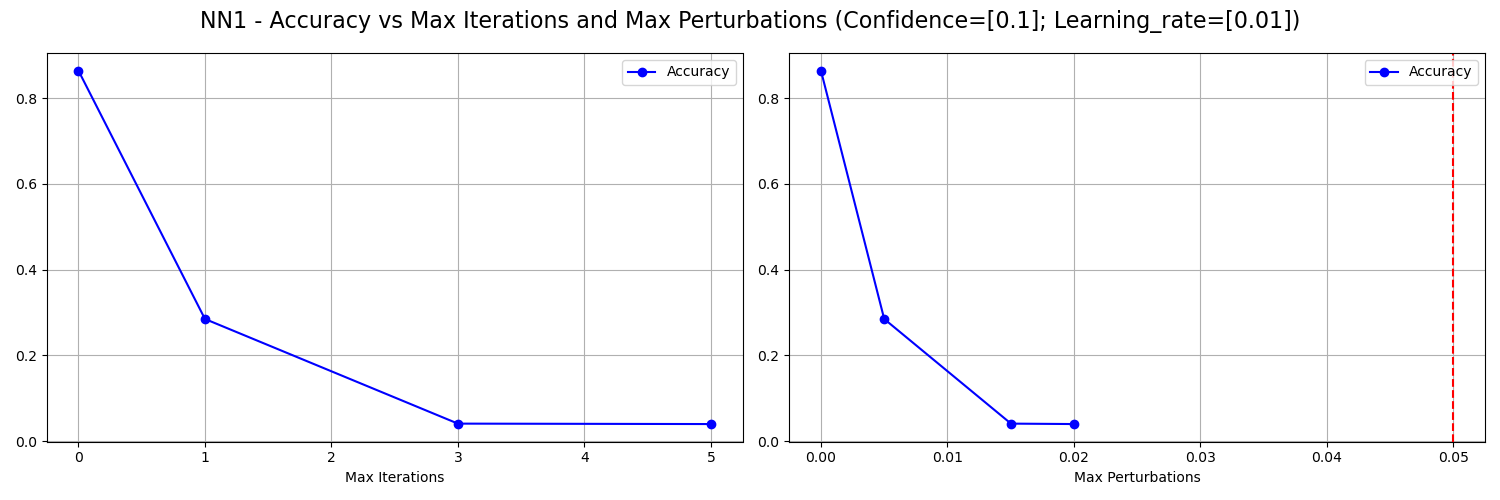
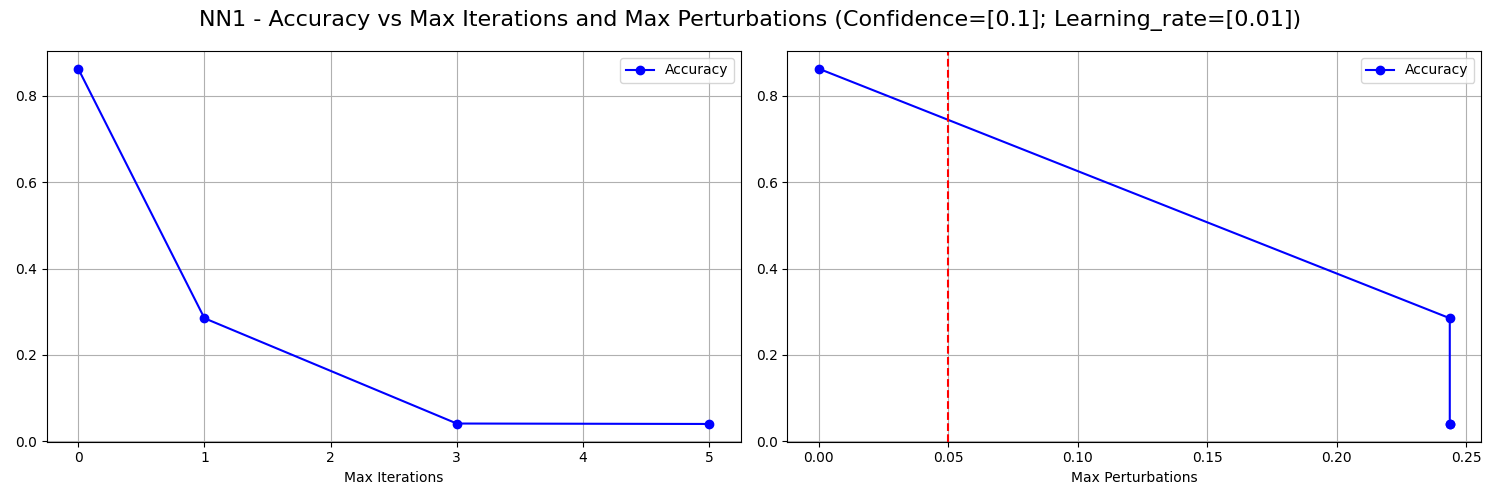
aggiustamento pgd

diff --git a/security_evaluation_curve.py b/security_evaluation_curve.py
@@ -306,7 +306,6 @@ def run_cw(classifier, name, test_set, accuracy_clean, targeted=False, targeted_
     else:
         plot_accuracy(f"{name} - Accuracy vs Confidence and Max Perturbations (Max_iter={max_iter}; Learning_rate={learning_rate})", "Confidence", confidence_values, max_perturbations, accuracies, attack_dir)
     
-    ''' 
     # Calcolo dell'accuracy al variare di max_iter e della perturbazione massima (con confidence e learning_rate fissati)
     load_dir = images_dir + attack_dir + "/plot2"
     imgs_adv = load_images_from_npy_folder(load_dir)
@@ -366,7 +365,7 @@ def run_cw(classifier, name, test_set, accuracy_clean, targeted=False, targeted_
         plot_accuracy(f"{name} - Accuracy and Targeted Accuracy vs Learning Rate and Max Perturbations (Confidence={confidence}; Max_iter={max_iter})", "Learning Rate", learning_rate_values, max_perturbations, accuracies, attack_dir, targeted, targeted_accuracies)
     else:
         plot_accuracy(f"{name} - Accuracy vs Learning Rate and Max Perturbations (Confidence={confidence}; Max_iter={max_iter})", "Learning Rate", learning_rate_values, max_perturbations, accuracies, attack_dir)
-    '''
+
 
 def plot_accuracy(title, x_title, x, max_perturbations, accuracies, attack_dir, targeted=False, targeted_accuracies=None):
     fig, axes = plt.subplots(1, 2, figsize=(15, 5))

diff --git a/generate_adv_example.py b/generate_adv_example.py
@@ -8,7 +8,7 @@ from attacks import FGSM, BIM, PGD, DF, CW
 
 def main():
     parser = argparse.ArgumentParser()
-    parser.add_argument('--generate_train_adv', type=bool, default=False, help='Se True, genera il train adv set; altrimenti genera il test adv set')
+    parser.add_argument('--generate_train_adv', type=bool, default=True, help='Se True, genera il train adv set; altrimenti genera il test adv set')
     parser.add_argument("--targeted", type=bool, default=True, help="Generate targeted attacks")
     parser.add_argument("--verbose", type=bool, default=True, help="Print detailed information during the generation of adversarial examples")
     args = parser.parse_args()
@@ -19,7 +19,7 @@ def main():
 
     # Attacchi selezionati
     attack_types = ["fgsm", "bim", "pgd", "df", "cw"]
-    attack_types = ["fgsm"]
+    attack_types = ["pgd"]
 
     # Generazione del training set avversario
     if args.generate_train_adv:

diff --git a/defence.py b/defence.py
@@ -13,7 +13,7 @@ def main():
     parser = argparse.ArgumentParser()
     parser.add_argument('--train_detectors', type=bool, default=True, help='Se True, addestra i detector; altrimenti carica i modelli salvati e procede con la valutazione')
     parser.add_argument('--threshold', type=float, default=0.5, help='Threshold per le rilevazioni dei detector')
-    parser.add_argument("--attack", type=str, default="fgsm", choices=["fgsm", "bim", "pgd", "df", "cw"], help="Type of attack to test")
+    parser.add_argument("--attack", type=str, default="pgd", choices=["fgsm", "bim", "pgd", "df", "cw"], help="Type of attack to test")
     parser.add_argument("--targeted", type=bool, default=False, help="Test on targeted attack")
     args = parser.parse_args()
 

diff --git a/attacks.py b/attacks.py
@@ -118,7 +118,7 @@ class PGD(AdversarialAttack):
         super().__init__(classifierNN1, classifierNN2, detectors, threshold)
 
     def generate_attack(self, images, epsilon, epsilon_step, max_iter, targeted=False, targeted_labels=None):
-        attack = ProjectedGradientDescent(estimator=self.classifierNN1, eps=epsilon, eps_step=epsilon_step, max_iter=max_iter, random_eps=True, targeted=targeted)
+        attack = ProjectedGradientDescent(estimator=self.classifierNN1, eps=epsilon, eps_step=epsilon_step, max_iter=max_iter, targeted=targeted)
         if targeted:
             one_hot_targeted_labels = torch.nn.functional.one_hot(targeted_labels, NUM_CLASSES).numpy()
             return attack.generate(images, one_hot_targeted_labels)

diff --git a/main.py b/main.py
@@ -54,8 +54,8 @@ def main():
         run_pgd(classifier, name, test_set, accuracy_clean)
     if "df" in attacks:
         run_df(classifier, name, test_set, accuracy_clean)
-    #if "cw" in attacks:
-        #run_cw(classifier, name, test_set, accuracy_clean)
+    if "cw" in attacks:
+        run_cw(classifier, name, test_set, accuracy_clean)
 
     # Calcolo della targeted accuracy sulle immagini clean rispetto alle label della classe target
     target_class_label = "Cristiano_Ronaldo"
